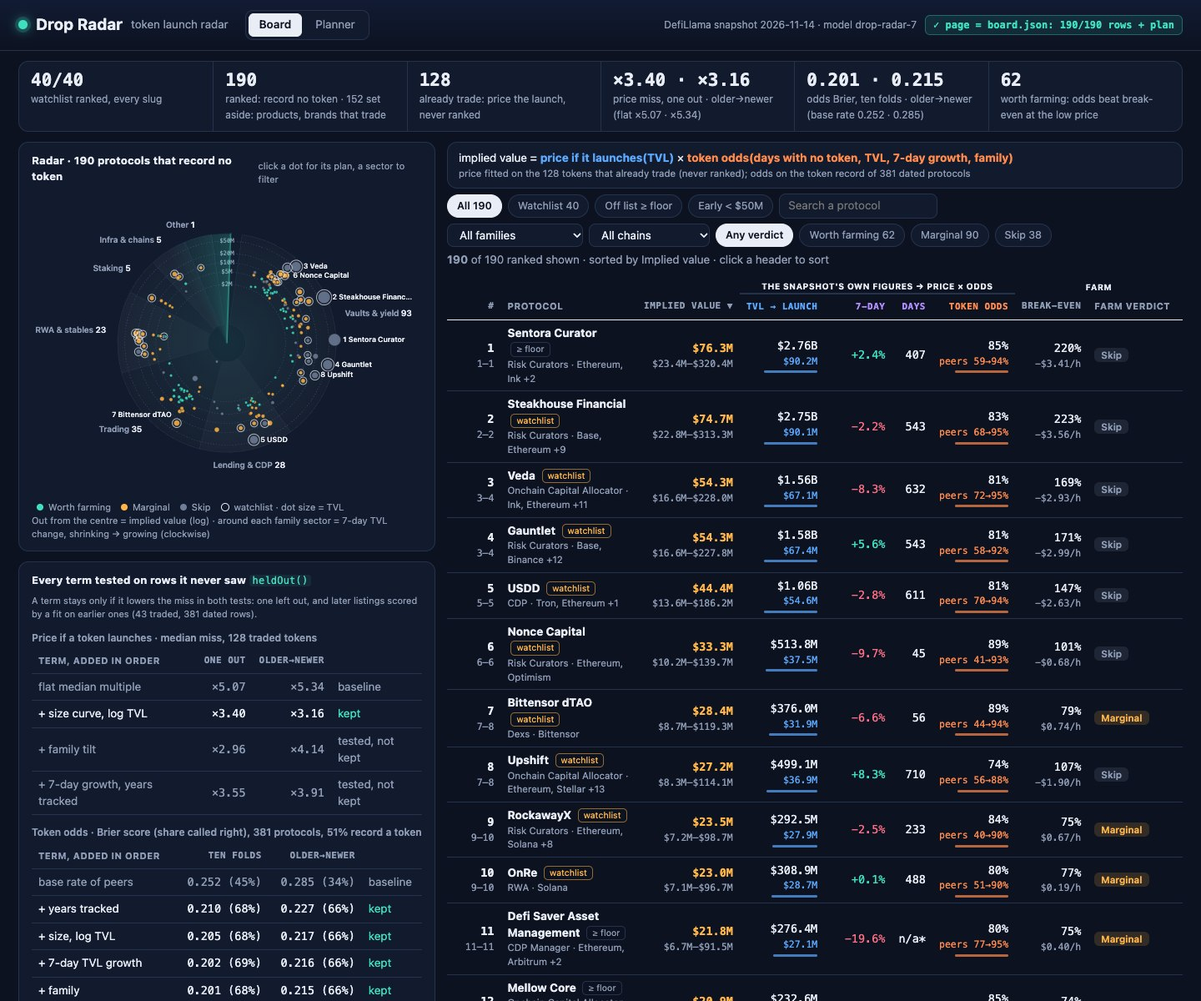
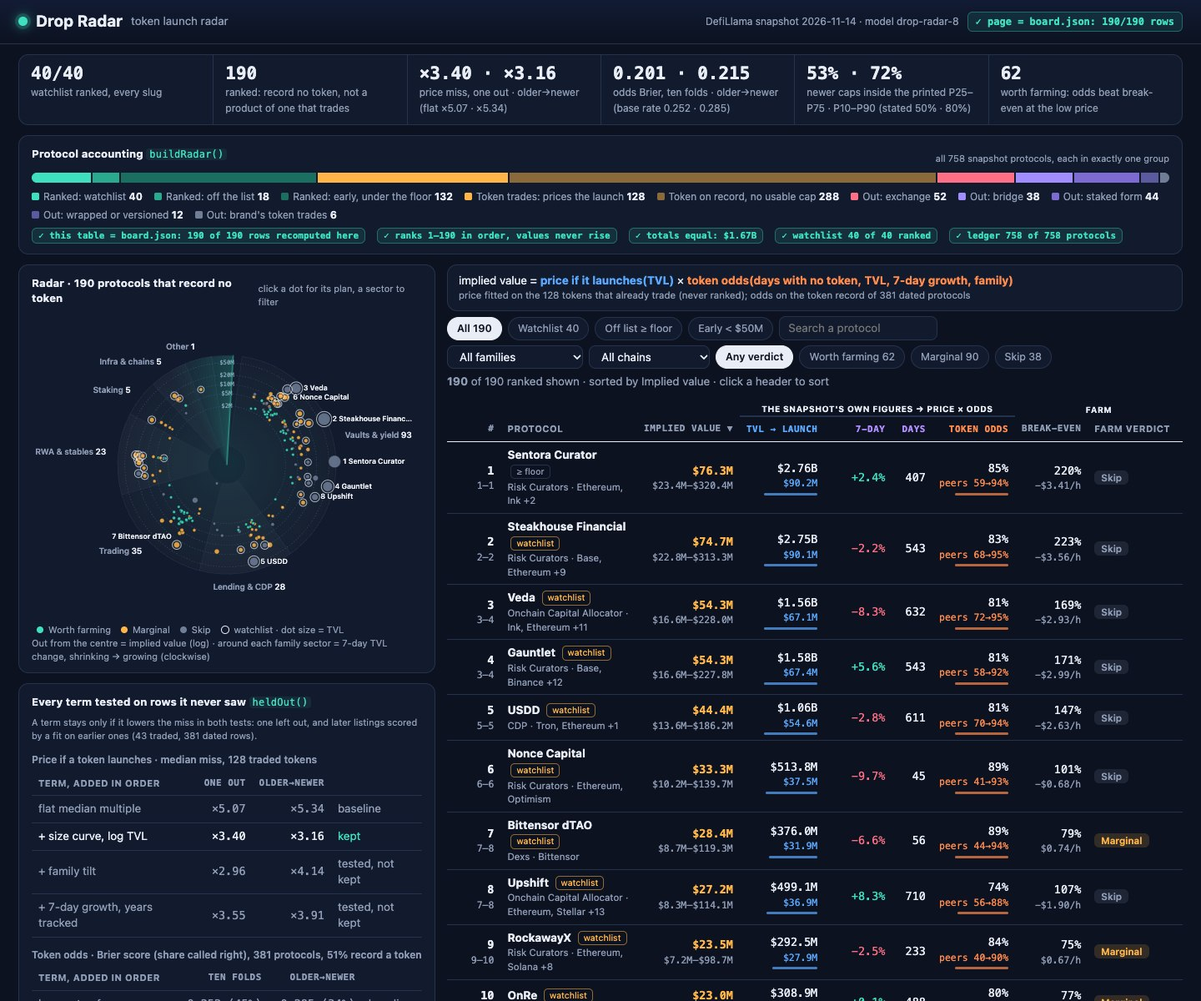
v8 candidate: account for all 758 protocols, show band honesty, drop the planner
The board now puts every snapshot protocol in exactly one group (ranked,
token trades, token on record with no cap, each set-aside reason) and reruns
five checks against board.json in the page: rows, rank order, totals,
watchlist and the 758-protocol ledger. A KPI shows how many newer listings'
caps land inside the printed P25-P75 and P10-P90 bands. The portfolio
planner is removed to keep the whole source inside the dossier. The model,
ranks, values and farm steps are unchanged from v7.

Changed region(s): [[0.0, 0.0, 1.0, 1.0], [0.2812, 0.5858, 0.3438, 0.6167]]

diff --git a/dashboard/radar.js b/dashboard/radar.js
@@ -1,5 +1,5 @@
 // Drop Radar page: reruns model.js on the sealed snapshot (../data.js), checks it against board.json row by row,
-// and renders the board, its radar sweep, a detail view per protocol and the planner. State: the URL hash.
+// and renders the board with its protocol accounting and radar sweep, and a detail view per protocol. State: the URL hash.
 (function () {
   'use strict';
   var M = window.DropRadar, R = M.buildRadar(window.SNAPSHOT), B = window.BOARD;
@@ -7,22 +7,20 @@
   var esc = function (s) { return String(s).replace(/[&<>"']/g, function (c) { return '&#' + c.charCodeAt(0) + ';'; }); };
   var usd = function (x) { return x >= 1e9 ? '$' + (x / 1e9).toFixed(2) + 'B' : x >= 1e6 ? '$' + (x / 1e6).toFixed(1) + 'M' : x >= 1e3 ? '$' + Math.round(x / 1e3) + 'K' : '$' + Math.round(x); };
   var pct = function (x) { return x === null ? '<span class="mute">n/a</span>' : '<span class="' + (x >= 0 ? 'up' : 'down') + '">' + (x >= 0 ? '+' : '') + x.toFixed(1) + '%</span>'; };
-  var hrs = function (m) { return (m / 60).toFixed(1) + ' h'; };
   var VCLASS = { 'Worth farming': 'v-worth', 'Marginal': 'v-marg', 'Skip': 'v-skip' };
   var bySlug = {}; R.rows.forEach(function (r) { bySlug[r.slug] = r; });
 
-  // board.json = this page: every rank, value and farm plan, and the default portfolio, against the files main.ts wrote.
+  // board.json = this page: every rank, value and farm plan, against the file main.ts wrote.
   var matched = 0;
   R.rows.forEach(function (r, i) {
     var b = B.rows[i], steps = M.boardRows({ rows: [r] })[0].farm_steps;
     if (b && b.slug === r.slug && b.rank === r.rank && b.implied_value_usd === r.implied && b.farm_steps.join('|') === steps.join('|')) matched++;
   });
-  var P0 = M.planPortfolio(R), planOk = B.portfolio && B.portfolio.picks.join('|') === P0.picks.map(function (q) { return q.r.slug + ':' + q.deposit + ':' + q.start; }).join('|');
-  var verified = matched === B.rows.length && matched === R.rows.length && planOk;
+  var verified = matched === B.rows.length && matched === R.rows.length;
   document.getElementById('stamp').innerHTML = 'DefiLlama snapshot ' + esc(R.as_of) + ' &middot; model ' + esc(R.cfg.version) +
-    ' <span class="check ' + (verified ? 'ok' : 'bad') + '">' + (verified ? '&#10003;' : '&#10007;') + ' page = board.json: ' + matched + '/' + B.rows.length + ' rows' + (planOk ? ' + plan' : '') + '</span>';
+    ' <span class="check ' + (verified ? 'ok' : 'bad') + '">' + (verified ? '&#10003;' : '&#10007;') + ' page = board.json: ' + matched + '/' + B.rows.length + ' rows</span>';
 
-  var D = { view: 'board', q: '', fam: '', chain: '', scope: 'all', verdict: '', sort: 'implied', dir: -1, p: '', budget: '', hours: '', rate: '' };
+  var D = { q: '', fam: '', chain: '', scope: 'all', verdict: '', sort: 'implied', dir: -1, p: '' };
   var S = JSON.parse(JSON.stringify(D));
   function readHash() {
     location.hash.replace(/^#/, '').split('&').forEach(function (kv) {
@@ -37,7 +35,6 @@
     history.replaceState(null, '', parts.length ? '#' + parts.join('&') : location.pathname);
     render();
   }
-  function plan() { return M.planPortfolio(R, { budget: S.budget, hours: S.hours, rate: S.rate }); }
   function wire() {
     app.querySelectorAll('[data-slug]').forEach(function (el) { el.onclick = function () { go({ p: el.dataset.slug }); }; });
     app.querySelectorAll('[data-fam]').forEach(function (el) { el.onclick = function () { go({ view: 'board', fam: S.fam === el.dataset.fam ? '' : el.dataset.fam }); }; });
@@ -102,12 +99,27 @@
     var p = R.price[R.pk].test, p0 = R.price[0].test, o = R.oddsTests.filter(function (s) { return s.kept; }).pop().test, o0 = R.oddsTests[0].test;
     return '<section class="kpis">' + [
       [w + '/' + R.watch_n, 'watchlist ranked, every slug'],
-      [R.rows.length, 'ranked: record no token &middot; ' + R.set_aside + ' set aside: products, brands that trade'],
-      [R.traded.length, 'already trade: price the launch, never ranked'],
+      [R.rows.length, 'ranked: record no token, not a product of one that trades'],
       ['&times;' + p.first.miss.toFixed(2) + ' &middot; &times;' + p.walk.miss.toFixed(2), 'price miss, one out &middot; older&rarr;newer (flat &times;' + p0.first.miss.toFixed(2) + ' &middot; &times;' + p0.walk.miss.toFixed(2) + ')'],
       [o.first.brier.toFixed(3) + ' &middot; ' + o.walk.brier.toFixed(3), 'odds Brier, ten folds &middot; older&rarr;newer (base rate ' + o0.first.brier.toFixed(3) + ' &middot; ' + o0.walk.brier.toFixed(3) + ')'],
+      [Math.round(R.cover[0].walk * 100) + '% &middot; ' + Math.round(R.cover[1].walk * 100) + '%', 'newer caps inside the printed P25&ndash;P75 &middot; P10&ndash;P90 (stated 50% &middot; 80%)'],
       [worth, 'worth farming: odds beat break-even at the low price'],
     ].map(function (k) { return '<div><b>' + k[0] + '</b><span>' + k[1] + '</span></div>'; }).join('') + '</section>';
+  }
+
+  // Every snapshot protocol in exactly one group, and the checks this page reruns against board.json.
+  var LCOL = ['#3fe0c0', '#2aa98f', '#1b6f61', '#ffb547', '#8a6a3a', '#ff6f86', '#a28dff', '#7d6bd1', '#5b5a9e', '#6f7d96', '#3a4660'];
+  function ledger() {
+    var g = R.ledger, keys = M.LEDGER.filter(function (k) { return g[k]; }), n = keys.reduce(function (s, k) { return s + g[k]; }, 0);
+    var sum = function (a, f) { return a.reduce(function (s, r) { return s + r[f]; }, 0); }, w = R.rows.filter(function (r) { return r.watch; }).length;
+    var desc = R.rows.every(function (r, i) { return r.rank === i + 1 && (!i || r.implied <= R.rows[i - 1].implied); });
+    var col = function (k) { return LCOL[M.LEDGER.indexOf(k)]; };
+    var chk = [[verified, 'this table = board.json: ' + matched + ' of ' + B.rows.length + ' rows recomputed here'], [desc, 'ranks 1&ndash;' + R.rows.length + ' in order, values never rise'],
+      [sum(R.rows, 'implied') === sum(B.rows, 'implied_value_usd'), 'totals equal: ' + usd(sum(R.rows, 'implied'))], [w === R.watch_n, 'watchlist ' + w + ' of ' + R.watch_n + ' ranked'], [n === R.universe, 'ledger ' + n + ' of ' + R.universe + ' protocols']];
+    return '<section class="card ledger"><div class="plhead"><h3>Protocol accounting <code>buildRadar()</code></h3><span class="mute tiny">all ' + R.universe + ' snapshot protocols, each in exactly one group</span></div><div class="lbar">' +
+      keys.map(function (k) { return '<i style="flex:' + g[k] + ';background:' + col(k) + '" title="' + esc(k) + ': ' + g[k] + '"></i>'; }).join('') + '</div><div class="lkey">' +
+      keys.map(function (k) { return '<span><i style="background:' + col(k) + '"></i>' + esc(k) + ' <b>' + g[k] + '</b></span>'; }).join('') + '</div><div class="lkey">' +
+      chk.map(function (c) { return '<span class="check ' + (c[0] ? 'ok' : 'bad') + '">' + (c[0] ? '&#10003; ' : '&#10007; ') + c[1] + '</span>'; }).join('') + '</div></section>';
   }
 
   // Every term of both fits, in the order it was tried, with its two held-out scores and whether it stayed.
@@ -163,7 +175,7 @@
     R.rows.forEach(function (r) { r.chains.forEach(function (c) { chains[c] = (chains[c] || 0) + 1; }); });
     var famCount = function (f) { return R.rows.filter(function (r) { return r.family === f; }).length; };
     var vCount = function (v) { return R.rows.filter(function (r) { return r.plan.verdict === v; }).length; };
-    app.innerHTML = kpis() + '<div class="hgrid"><div class="lcol"><section class="card"><div class="plhead"><h3>Radar &middot; ' + R.rows.length + ' protocols that record no token</h3><span class="mute tiny">click a dot for its plan, a sector to filter</span></div>' + sweep() + '</section>' + howCard() + '</div>' +
+    app.innerHTML = kpis() + ledger() + '<div class="hgrid"><div class="lcol"><section class="card"><div class="plhead"><h3>Radar &middot; ' + R.rows.length + ' protocols that record no token</h3><span class="mute tiny">click a dot for its plan, a sector to filter</span></div>' + sweep() + '</section>' + howCard() + '</div>' +
       '<div class="rcol"><div class="formula">implied value = <b class="k-tvl">price if it launches(TVL)</b> &times; <b class="k-d">token odds(days with no token, TVL, 7-day growth, family)</b><span>price fitted on the ' + R.traded.length + ' tokens that already trade (never ranked); odds on the token record of ' + R.dated + ' dated protocols</span></div>' +
       '<div class="filters">' + chip('scope', 'all', 'All ' + R.rows.length) + chip('scope', 'watch', 'Watchlist ' + R.watch_n) + chip('scope', 'off', 'Off list &ge; floor') + chip('scope', 'early', 'Early &lt; $50M') +
       '<input type="search" id="q" placeholder="Search a protocol" value="' + esc(S.q) + '"></div>' +
@@ -183,37 +195,9 @@
     app.querySelector('#chain').onchange = function (e) { go({ chain: e.target.value }); };
   }
 
-  // ---- the portfolio planner
-  var span = function (a) { return a.length > 1 ? a[0] + '&ndash;' + a[a.length - 1] : String(a[0]); };
-
-  function planner() {
-    var P = plan(), o = P.opt, cap = o.hours * 60, hl = {};
-    P.picks.forEach(function (q) { hl[q.r.slug] = 1; });
-    var field = function (k, label, step) { return '<label>' + label + '<input type="number" min="1" step="' + step + '" data-in="' + k + '" value="' + o[k] + '"></label>'; };
-    var tile = function (v, k, sub) { return '<div><span>' + k + '</span><b>' + v + '</b>' + (sub ? '<small>' + sub + '</small>' : '') + '</div>'; };
-    var weeks = P.load.map(function (m, i) { return '<th class="num">wk ' + (i + 1) + '</th>'; }).join('');
-    app.innerHTML = '<section class="card ptop"><div><h2>Farm portfolio planner</h2><p class="mute">From the ' + P.candidates + ' Worth farming and Marginal rows, <code>planPortfolio()</code> takes positions by expected drop per dollar of fees, income forgone and time (hours &times; your rate): one per protocol, at most ' + Math.round(o.family_cap * 100) + '% of the budget in one family, each started in the first of ' + o.starts + ' weeks that keeps every week under your hours cap.</p></div>' +
-      '<div class="inputs">' + field('budget', 'Budget, $', 500) + field('hours', 'Hours a week', 0.5) + field('rate', 'Your time, $/h', 5) + '</div></section>' +
-      '<section class="totals big">' + tile(P.picks.length, 'positions', money(P.deposit) + ' deployed') + tile(money(P.fees), 'fees and gas', 'every step, every chain') + tile(money(P.forgone), 'income forgone', Math.round(R.cfg.tbill * 100) + '% a year on the deposits') + tile(hrs(P.minutes), 'hands-on time', 'peak week ' + Math.round(Math.max.apply(0, P.load.concat(0))) + ' of ' + cap + ' min') +
-      tile(money(P.slice), 'expected drop', 'odds applied; band ' + money(P.lo) + '&ndash;' + money(P.hi)) + tile(P.slice ? Math.round((P.fees + P.forgone) / P.slice * 100) + '%' : '&ndash;', 'costs / expected drop', 'under 100% pays for the plan') + '</section>' +
-      (P.picks.length ? '' : '<p class="card warn">No position fits: a setup week takes about 70 minutes, so allow at least 1.5 hours a week and $' + o.min_fill + ' per position.</p>') +
-      '<div class="pgrid"><div><section class="card"><h3>Positions, in the order the greedy took them</h3><table class="mini"><thead><tr><th>#</th><th>Protocol</th><th class="num">Deposit</th><th>Chain</th><th class="num">Start</th><th class="num">Fees</th><th class="num">Forgone</th><th class="num">Time</th><th class="num">Expected drop (band)</th><th class="num">Drop / $</th></tr></thead><tbody>' +
-      P.picks.map(function (q, i) { return '<tr data-slug="' + esc(q.r.slug) + '"><td>' + (i + 1) + '</td><td><b>' + esc(q.r.name) + '</b> <span class="verdict ' + VCLASS[q.r.plan.verdict] + '">' + q.r.plan.verdict + '</span><small>' + esc(q.r.family) + ' &middot; rank ' + q.r.rank + ' &middot; ' + usd(q.r.implied) + '</small></td><td class="num">' + money(q.deposit) + '</td><td>' + esc(q.r.plan.chain) + '</td><td class="num">wk ' + (q.start + 1) + '</td><td class="num">' + money(q.fees) + '</td><td class="num">' + money(q.forgone) + '</td><td class="num">' + q.minutes + ' min</td><td class="num"><b class="val">' + money(q.slice) + '</b><small>' + money(q.lo) + '&ndash;' + money(q.hi) + '</small></td><td class="num">&times;' + q.score.toFixed(2) + '</td></tr>'; }).join('') + '</tbody></table></section>' +
-      '<section class="card"><h3>The combined schedule: which step of each plan falls in which week</h3><table class="cal"><thead><tr><th>Position</th>' + weeks + '</tr></thead><tbody>' +
-      P.picks.map(function (q) {
-        var cells = P.load.map(function (m, i) { var w = q.weeks[i - q.start]; return !w ? '<td></td>' : '<td class="on' + (w.steps.length ? ' st' : '') + '" title="' + Math.round(w.min) + ' min">' + (w.steps.length ? span(w.steps) : '&middot;') + '</td>'; }).join('');
-        return '<tr data-slug="' + esc(q.r.slug) + '"><td>' + esc(q.r.name) + '</td>' + cells + '</tr>';
-      }).join('') +
-      '<tr class="sum"><td>Minutes that week</td>' + P.load.map(function (m) { return '<td class="num' + (m > cap * 0.8 ? ' hot' : '') + '">' + Math.round(m) + '</td>'; }).join('') + '</tr></tbody></table>' +
-      '<p class="mute tiny">Numbers are the plan steps of each protocol\'s detail page (1&ndash;4 setup, 6 midway, 8 withdraw); &middot; is the 5-minute weekly check. The stop rule and the claim fire only on an event.</p></section></div>' +
-      '<div><section class="card"><h3>Chosen positions on the radar</h3>' + sweep(hl) + '</section></div></div>';
-    wire();
-    app.querySelectorAll('[data-in]').forEach(function (el) { el.onchange = function () { var x = {}; x[el.dataset.in] = el.value > 0 ? String(+el.value) : ''; go(x); }; });
-  }
-
   // ---- one protocol
   function detail(r) {
-    var p = r.plan, f = r.f, mine = P0.picks.filter(function (q) { return q.r === r; })[0];
+    var p = r.plan, f = r.f;
     var tile = function (v, k, cls) { return '<div class="tile ' + (cls || '') + '"><b>' + v + '</b><span>' + k + '</span></div>'; };
     app.innerHTML = '<a class="back" href="#">&larr; Board</a><div class="dhead"><h1>' + esc(r.name) + '</h1><span class="tag">records no token</span>' + (r.watch ? '<span class="tag watch">watchlist</span>' : '') + (r.sib ? '<span class="tag">its brand\'s $' + esc(r.sib) + ' trades</span>' : '') + '<span class="tag">' + esc(r.category) + '</span><span class="tag">' + esc(r.chains.slice(0, 4).join(' · ')) + '</span></div>' +
       '<div class="dgrid"><section class="card"><div class="hero"><div><span class="mute">Implied value, this model\'s claim</span><b class="big">' + usd(r.implied) + '</b></div>' +
@@ -223,7 +207,7 @@
       '<p class="mute tiny">Odds: peers like it (same TVL, growth, family) record a token ' + Math.round(f.now * 100) + '% of the time by its age and ' + Math.round(f.end * 100) + '% by ' + R.ceiling.toFixed(1) + ' years, so (' + Math.round(f.end * 100) + ' &minus; ' + Math.round(f.now * 100) + ') / (100 &minus; ' + Math.round(f.now * 100) + ') = ' + Math.round(r.odds * 100) + '% of the ones still without one get there. The peers\' record, not a forecast.</p>' +
       '<h3>The farm arithmetic</h3><div class="arith">Drop if a token launches = ' + Math.round(R.cfg.drop_share * 100) + '% airdrop &times; ' + usd(r.launch) + ' &times; ' + money(p.deposit) + ' / (' + usd(r.tvl) + ' TVL + ' + money(p.deposit) + ') = <b>' + money(p.launch) + '</b>; expected drop = &times; ' + Math.round(r.odds * 100) + '% odds = <b>' + money(p.slice) + '</b><br>Break-even = (' + money(p.fees) + ' fees + ' + money(p.forgone) + ' income forgone at ' + Math.round(R.cfg.tbill * 100) + '% a year for ' + p.weeks + ' weeks) / ' + money(p.launch) + ' = <b>' + Math.round(p.odds * 100) + '%</b> odds, against the model\'s <b>' + Math.round(r.odds * 100) + '%</b>. With the price at the band\'s ends: ' + Math.round(p.odds_hi * 100) + '% to ' + Math.round(p.odds_lo * 100) + '%.</div>' +
       '<p class="mute">' + (r.odds >= p.odds_lo ? 'Worth farming: the odds clear the break-even even at the band\'s low price.' : r.odds < p.odds ? 'A skip: the odds sit below the break-even at the point price.' : 'Marginal: the odds clear the break-even only above the band\'s low price; size the deposit down or wait for a points page.') + '</p>' +
-      '<div class="inplan">' + (mine ? 'In the default <a href="#view=plan">portfolio</a>: ' + money(mine.deposit) + ' from week ' + (mine.start + 1) + ', slice ' + money(mine.slice) + '.' : 'Not in the default <a href="#view=plan">' + money(P0.opt.budget) + ' portfolio</a>' + (p.verdict === 'Skip' ? ': a Skip.' : ': other rows pay more per dollar and hour.')) + '</div></section>' +
+      '</section>' +
       '<section class="card"><div class="plhead"><h3>Farm plan &middot; ' + esc(p.chain) + ' &middot; ' + money(p.deposit) + ' &middot; ' + p.weeks + ' weeks</h3><span class="verdict ' + VCLASS[p.verdict] + '">' + p.verdict + '</span></div>' + '<p class="stopline">Stop rule, any day: exit if TVL closes under ' + money(p.stop) + '</p>' +
       '<table class="plan"><thead><tr><th>#</th><th>When</th><th>Step</th><th class="num">Cost</th><th class="num">Time</th></tr></thead><tbody>' +
       p.steps.map(function (s, i) { return '<tr' + (/^Stop rule/.test(s.text) ? ' class="stoprow"' : '') + '><td>' + (i + 1) + '</td><td>' + esc(s.when) + '</td><td>' + esc(s.text) + '</td><td class="num">' + money(s.cost) + '</td><td class="num">' + s.min + ' min</td></tr>'; }).join('') + '</tbody></table>' +
@@ -232,9 +216,8 @@
   }
 
   function render() {
-    document.querySelectorAll('.tabs button').forEach(function (b) { b.setAttribute('aria-selected', String(b.dataset.view === S.view && !S.p)); b.onclick = function () { go({ view: b.dataset.view, p: '' }); }; });
     var r = S.p && bySlug[S.p];
-    if (r) detail(r); else if (S.view === 'plan') planner(); else board();
+    if (r) detail(r); else board();
     var back = app.querySelector('.back'); if (back) back.onclick = function (e) { e.preventDefault(); go({ p: '' }); };
     window.scrollTo(0, 0);
   }

diff --git a/dashboard/model.js b/dashboard/model.js
@@ -5,7 +5,7 @@
   'use strict';
 
   var CFG = {
-    version: 'drop-radar-7',
+    version: 'drop-radar-8',
     shrink_k: 4, ridge: 0.5, fam_ridge: 8, ceiling_q: 0.95, odds_floor: 0.03,
     drop_share: 0.10,     // airdrop share of the launch value
     tbill: 0.04,          // income a deposit forgoes, per year
@@ -13,7 +13,10 @@
   };
 
   var FAMILIES = ['Vaults & yield', 'Lending & CDP', 'Trading', 'RWA & stables', 'Staking', 'Infra & chains', 'Other'];
-  var EXCLUDED = { 'CEX': 1, 'Bridge': 1, 'Canonical Bridge': 1, 'Liquid Staking': 1, 'Liquid Restaking': 1, 'Restaked BTC': 1, 'Stablecoin Wrapper': 1 };
+  var STAKED = { 'Liquid Staking': 1, 'Liquid Restaking': 1, 'Restaked BTC': 1 };
+  // Every snapshot protocol lands in exactly one of these groups (buildRadar counts them; the page sums them to the universe).
+  var LEDGER = ['Ranked: watchlist', 'Ranked: off the list', 'Ranked: early, under the floor', 'Token trades: prices the launch', 'Token on record, no usable cap',
+    'Out: exchange', 'Out: bridge', 'Out: staked form', 'Out: wrapped or versioned', 'Out: brand\'s token trades', 'No TVL'];
 
   function familyOf(cat) {
     var c = String(cat || '').toLowerCase();
@@ -28,12 +31,15 @@
 
   function isPreToken(p) { return p.mcap_usd === null && p.gecko_id === null && p.symbol === null; }
 
-  /** The house product rule minus its TVL floor, plus stablecoin wrappers and restaking of a liquid-staked token. */
-  function isProduct(p, staked) {
-    if (EXCLUDED[p.category]) return true;
-    if (p.category === 'Restaking' && p.slug.split('-').some(function (s) { return staked[s]; })) return true;
-    if (/^(binance|coinbase|bybit|kraken|bitget|okx|bitfinex|gemini)\b/i.test(p.name)) return true;
-    return /\b(wrapped|staked|staking)\b/i.test(p.name) || /\s(v\d+|\d+\.\d+)$/i.test(p.name);
+  /** Why a protocol is a product of a token that trades, '' when it is not: the house rule minus its TVL floor, plus
+   *  stablecoin wrappers and restaking of a liquid-staked token. */
+  function productOf(p, staked) {
+    var c = p.category || '', n = p.name;
+    if (c === 'CEX' || /^(binance|coinbase|bybit|kraken|bitget|okx|bitfinex|gemini)\b/i.test(n)) return 'exchange';
+    if (c === 'Bridge' || c === 'Canonical Bridge') return 'bridge';
+    if (STAKED[c] || /\b(staked|staking)\b/i.test(n) || (c === 'Restaking' && p.slug.split('-').some(function (s) { return staked[s]; }))) return 'staked form';
+    if (c === 'Stablecoin Wrapper' || /\bwrapped\b/i.test(n) || /\s(v\d+|\d+\.\d+)$/i.test(n)) return 'wrapped or versioned';
+    return '';
   }
 
   var L = function (x) { return Math.log(x) / Math.LN10; };
@@ -191,50 +197,6 @@
       odds_lo: beLo, odds_hi: be * r.implied / r.hi };
   }
 
-  // ---------------------------------------------------------------- the portfolio
-  var PF = { budget: 10000, hours: 3, rate: 25, family_cap: 0.25, starts: 4, min_fill: 250, tvl_cap: 0.001 };
-
-  /** Minutes a plan asks for in each week of its hold: dated steps in week floor(day / 7), the check every week. */
-  function weekLoad(plan) {
-    var w = [];
-    for (var k = 0; k <= plan.weeks; k++) w.push({ min: 0, steps: [] });
-    plan.steps.forEach(function (s, i) {
-      if (s.weekly) for (k = 0; k < plan.weeks; k++) w[k].min += s.min / plan.weeks;
-      else if (s.at !== undefined) { w[Math.floor(s.at / 7)].min += s.min; w[Math.floor(s.at / 7)].steps.push(i + 1); }
-    });
-    return w;
-  }
-
-  /** Greedy plan: Worth farming and Marginal rows by expected drop per $ of fees + income forgone + time (hours x rate),
-   *  one per protocol, at most family_cap of the budget per family, started in the first of `starts` weeks that keeps
-   *  every week of the combined schedule under the hours cap. */
-  function planPortfolio(radar, opt) {
-    var o = {}, k;
-    for (k in PF) o[k] = opt && opt[k] > 0 ? +opt[k] : PF[k];
-    var cap = o.hours * 60, load = [], fam = {}, left = o.budget, picks = [];
-    var cand = radar.rows.filter(function (r) { return r.plan.verdict !== 'Skip'; }).map(function (r) {
-      var p = r.plan; return { r: r, score: p.slice / (p.fees + p.forgone + p.minutes / 60 * o.rate) };
-    }).sort(function (a, b) { return b.score - a.score || a.r.rank - b.r.rank; });
-    cand.forEach(function (c) {
-      var r = c.r, p = r.plan, room = Math.min(left, o.budget * o.family_cap - (fam[r.family] || 0));
-      var dep = Math.floor(Math.min(p.deposit * o.budget / PF.budget, r.tvl * o.tvl_cap, room) / 50) * 50;
-      var x = dep / p.deposit, slice = p.slice * x, forgone = p.forgone * x;
-      if (dep < o.min_fill || p.fees + forgone > slice) return;   // too small, or fees eat the smaller slice
-      var wl = weekLoad(p), start = -1;
-      for (var s = 0; s < o.starts && start < 0; s++) {
-        if (wl.every(function (w, i) { return (load[s + i] || 0) + w.min <= cap; })) start = s;
-      }
-      if (start < 0) return;
-      wl.forEach(function (w, i) { load[start + i] = (load[start + i] || 0) + w.min; });
-      fam[r.family] = (fam[r.family] || 0) + dep; left -= dep;
-      picks.push({ r: r, score: c.score, deposit: dep, start: start, weeks: wl, fees: p.fees, forgone: forgone, minutes: p.minutes, slice: slice, lo: slice * r.lo / r.implied, hi: slice * r.hi / r.implied });
-    });
-    var sum = function (f) { return picks.reduce(function (t, q) { return t + q[f]; }, 0); };
-    for (k = 0; k < load.length; k++) load[k] = load[k] || 0;
-    return { opt: o, picks: picks, candidates: cand.length, load: load,
-      deposit: sum('deposit'), fees: sum('fees'), forgone: sum('forgone'), minutes: sum('minutes'), slice: sum('slice'), lo: sum('lo'), hi: sum('hi') };
-  }
-
   function stepText(s) { return s.when + ': ' + s.text + ' (cost ' + money(s.cost) + ', ' + s.min + ' min)'; }
 
   // ---------------------------------------------------------------- the board
@@ -261,9 +223,14 @@
     price.forEach(function (s, k) { if (!k) return; var c = price[pk].test; s.kept = s.test.first.miss < c.first.miss && s.test.walk.miss < c.walk.miss; if (s.kept) pk = k; });
     var fit = fitPrice(pts, pk), loo = price[pk].test.first;
     var bandLo = quantile(loo.err, 0.25), bandHi = quantile(loo.err, 0.75);
+    // Is the printed band honest? The share of held-out misses inside the P25..P75 and P10..P90 of the one-out misses.
+    var cover = [0.25, 0.1].map(function (q) {
+      var a = quantile(loo.err, q), z = quantile(loo.err, 1 - q), inside = function (e) { return e.filter(function (x) { return x >= a && x <= z; }).length / e.length; };
+      return { stated: 1 - 2 * q, first: inside(loo.err), walk: inside(price[pk].test.walk.err) };
+    });
 
     // odds: every dated protocol that is not a product, token recorded or not
-    var us = snap.protocols.filter(function (p) { return p.listed_at && p.tvl_usd > 0 && !isProduct(p, staked); }).map(function (p) { return Object.assign({ y: isPreToken(p) ? 0 : 1 }, bySlug[p.slug]); });
+    var us = snap.protocols.filter(function (p) { return p.listed_at && p.tvl_usd > 0 && !productOf(p, staked); }).map(function (p) { return Object.assign({ y: isPreToken(p) ? 0 : 1 }, bySlug[p.slug]); });
     var cur = { name: 'base rate of peers', t: {}, test: heldOut(us, {}, oddsScore) }, odds = [cur];
     ODDS.forEach(function (term) {
       var t = Object.assign({}, cur.t); t[term] = 1;
@@ -277,11 +244,15 @@
     // a brand whose token trades: another product line of it (same first word of the name) is set aside off the list
     var brand = {}, word = function (n) { var x = n.toLowerCase().split(/[\s-]/)[0]; return x.length > 2 ? x : ''; };
     snap.protocols.forEach(function (p) { if (!isPreToken(p) && p.symbol && word(p.name)) brand[word(p.name)] = p.symbol; });
-    var rows = [], setAside = 0;
+    var rows = [], setAside = 0, ledger = {}, put = function (k) { ledger[k] = (ledger[k] || 0) + 1; };
     snap.protocols.forEach(function (p) {
-      var w = !!watch[p.slug], sib = brand[word(p.name)] || '';
-      if (!w && (!isPreToken(p) || !(p.tvl_usd > 0))) return;
-      if (!w && (sib || isProduct(p, staked))) { setAside++; return; }
+      var w = !!watch[p.slug], sib = brand[word(p.name)] || '', why = productOf(p, staked);
+      if (!w) {
+        if (!isPreToken(p)) return put(p.mcap_usd > 0 ? LEDGER[3] : LEDGER[4]);
+        if (!(p.tvl_usd > 0)) return put(LEDGER[10]);
+        if (why || sib) { setAside++; return put('Out: ' + (why || 'brand\'s token trades')); }
+      }
+      put(LEDGER[w ? 0 : p.tvl_usd >= snap.floor_usd ? 1 : 2]);
       var u = bySlug[p.slug], fam = u.fam;
       var size = Math.pow(10, fit.curve.a + fit.curve.b * u.x), launch = Math.pow(10, priceLog(fit, u));
       var o = tokenOdds(om, u, ceiling), q = o.q, implied = Math.max(1, Math.round(launch * q));
@@ -304,14 +275,14 @@
 
 
     return { cfg: CFG, as_of: asOf, source: snap.source, floor: snap.floor_usd, universe: snap.protocols.length, watch_n: snap.watchlist.length,
-      set_aside: setAside, fit: fit, price: price, pk: pk, oddsTests: odds, om: om, ceiling: ceiling, share: share, dated: us.length, band: [bandLo, bandHi], traded: pts, rows: rows };
+      set_aside: setAside, ledger: ledger, cover: cover, fit: fit, price: price, pk: pk, oddsTests: odds, om: om, ceiling: ceiling, share: share, dated: us.length, band: [bandLo, bandHi], traded: pts, rows: rows };
   }
 
   function boardRows(radar) {
     return radar.rows.map(function (r) { return { slug: r.slug, name: r.name, rank: r.rank, implied_value_usd: r.implied, farm_steps: r.plan.steps.map(stepText) }; });
   }
 
-  var api = { CFG: CFG, PF: PF, FAMILIES: FAMILIES, familyOf: familyOf, buildRadar: buildRadar, boardRows: boardRows, planPortfolio: planPortfolio, weekLoad: weekLoad, money: money, priceLog: priceLog };
+  var api = { CFG: CFG, FAMILIES: FAMILIES, LEDGER: LEDGER, familyOf: familyOf, buildRadar: buildRadar, boardRows: boardRows, money: money, priceLog: priceLog };
   root.DropRadar = api;
   if (typeof module === 'object' && module.exports) module.exports = api;
 })(typeof window !== 'undefined' ? window : globalThis);

diff --git a/dashboard/style.css b/dashboard/style.css
@@ -17,9 +17,6 @@ code{font:12px var(--mono);color:var(--teal);background:rgba(63,224,192,.08);pad
 .brand b{font-size:19px;letter-spacing:.2px}
 .brand .sub{color:var(--mute);margin-right:10px}
 .dot{width:11px;height:11px;border-radius:50%;background:var(--teal);box-shadow:0 0 0 4px rgba(63,224,192,.16), 0 0 14px var(--teal)}
-.tabs{display:flex;gap:3px;background:var(--panel);padding:3px;border:1px solid var(--line);border-radius:9px}
-.tabs button{border:0;background:none;padding:4px 13px;border-radius:6px;cursor:pointer;color:var(--mute)}
-.tabs button[aria-selected="true"]{background:var(--text);color:var(--ink);font-weight:600}
 .stamp{color:var(--mute);font-size:12px;display:flex;align-items:center;gap:10px}
 .check{font:600 12px var(--mono);padding:4px 9px;border-radius:6px}
 .check.ok{color:var(--teal);background:rgba(63,224,192,.1);border:1px solid rgba(63,224,192,.35)}
@@ -101,24 +98,11 @@ svg.sweep{width:100%;height:auto;display:block;margin:-4px 0 2px}
 .dot circle{fill:currentColor;fill-opacity:.85;stroke:var(--ink);stroke-width:.6} .dot:hover circle{stroke:#fff}
 .dot .wl{fill:none;stroke:var(--text);stroke-width:1.1}
 .sweep .lab{fill:var(--text);font:600 13px var(--sans);paint-order:stroke;stroke:var(--ink);stroke-width:3px;pointer-events:none}
-.totals small{display:block;color:var(--mute);font-size:11px} .ptop{display:flex;justify-content:space-between;gap:24px;align-items:center;margin-bottom:12px}
-.ptop h2{margin:0 0 4px;font-size:22px} .ptop p{margin:0;max-width:860px}
-.inputs{display:flex;gap:10px}
-.inputs label{display:flex;flex-direction:column;gap:3px;font-size:11px;color:var(--mute)}
-.inputs input{width:112px;background:var(--panel2);border:1px solid var(--teal);border-radius:8px;padding:6px 9px;font:600 15px var(--mono)}
-.totals.big{background:var(--panel);border:1px solid var(--line);border-radius:12px;padding:10px 14px;margin:0 0 12px}
-.totals.big b{font-size:20px}
-.pgrid{display:grid;grid-template-columns:minmax(0, 1fr) 430px;gap:12px;align-items:start}
-.pgrid > div{display:grid;gap:12px}
-table.mini tr[data-slug]{cursor:pointer}
-table.cal th{cursor:default;padding:4px;text-align:center;border-bottom-color:var(--line)}
-table.cal td{padding:4px;text-align:center;font:11px var(--mono)}
-table.cal td:first-child{text-align:left;font:12px var(--sans);white-space:nowrap}
-.cal td.on{background:rgba(63,224,192,.08);color:var(--mute)} .cal td.st{background:rgba(63,224,192,.3);color:var(--text);font-weight:700}
-.cal tr.sum td{border-top:1px solid var(--text);font-weight:700} .cal td.hot{color:var(--amber)}
-.warn{color:var(--amber)}
-.inplan{margin-top:8px;padding:7px 10px;border:1px dashed var(--line);border-radius:8px;font-size:12.5px}
-@media (max-width: 1100px){.cards,.dgrid,.hgrid,.pgrid{grid-template-columns:1fr} .kpis{grid-template-columns:repeat(3, 1fr)} .ptop{flex-wrap:wrap} }
+.totals small{display:block;color:var(--mute);font-size:11px} table.mini tr[data-slug]{cursor:pointer}
+@media (max-width: 1100px){.cards,.dgrid,.hgrid{grid-template-columns:1fr} .kpis{grid-template-columns:repeat(3, 1fr)} }
 h4{margin:12px 0 4px;font-size:12px;color:var(--mute);font-weight:600}
 .tests tr.kept td{color:var(--text)} .tests td{color:var(--mute)} .tests tr.kept td:last-child{color:var(--teal)}
 .stopline{color:var(--rose);font:12px var(--mono);margin:6px 0}
+.ledger{margin-bottom:12px} .lbar{display:flex;gap:2px;height:12px;border-radius:6px;overflow:hidden;margin:6px 0 8px} .lbar i{min-width:3px}
+.lkey{display:flex;flex-wrap:wrap;gap:5px 14px;font-size:12px;color:var(--mute);margin-top:6px} .lkey i{display:inline-block;width:9px;height:9px;border-radius:2px;margin-right:5px} .lkey b{color:var(--text)}
+.lkey .check{font-size:11px;padding:2px 7px}

diff --git a/main.ts b/main.ts
@@ -2,7 +2,7 @@
 //
 // The model lives in dashboard/model.js, the same file the page runs: main.ts requires it, builds the
 // radar from the sealed snapshot, checks the board against the gate's rules, and writes
-//   /output/board.json   the ranked rows (slug, name, rank, implied_value_usd, farm_steps) and the default portfolio
+//   /output/board.json   the ranked rows (slug, name, rank, implied_value_usd, farm_steps)
 //   /output/data.js      the snapshot and board.json, for the page to recompute and compare
 //   /output/dashboard/   the page; /output/screenshots/; /output/dossier.json (vendored library), last.
 //
@@ -66,15 +66,7 @@ const rows: BoardRow[] = DropRadar.boardRows(radar);
 const issue = boardIssue(rows, snapshot);
 if (issue !== null) fail(`the board would fail the gate: ${issue}`);
 
-// The default farm portfolio ($10,000, 3 hours a week), so the planner's screenshot has a file behind it too.
-const pf = DropRadar.planPortfolio(radar);
-const portfolio = {
-  budget: pf.opt.budget, hours_per_week: pf.opt.hours, time_usd_per_hour: pf.opt.rate,
-  picks: pf.picks.map((q: { r: { slug: string }; deposit: number; start: number }) => `${q.r.slug}:${q.deposit}:${q.start}`),
-  deposit_usd: pf.deposit, fees_usd: Math.round(pf.fees), forgone_usd: Math.round(pf.forgone), minutes: pf.minutes,
-  expected_drop_usd: Math.round(pf.slice), drop_band_usd: [Math.round(pf.lo), Math.round(pf.hi)],
-};
-const board = { model: radar.cfg.version, as_of: snapshot.as_of, portfolio, rows };
+const board = { model: radar.cfg.version, as_of: snapshot.as_of, rows };
 mkdirSync(out, { recursive: true });
 writeFileSync(join(out, 'board.json'), `${JSON.stringify(board)}\n`);
 writeFileSync(join(out, 'data.js'), `window.SNAPSHOT=${JSON.stringify(snapshot)};\nwindow.BOARD=${JSON.stringify(board)};\n`);
@@ -107,5 +99,5 @@ const price = radar.price[radar.pk].test, odds = radar.oddsTests.filter((s: { ke
 process.stdout.write(
   `drop radar: ${radar.universe} protocols, ${radar.traded.length} traded anchors, ${rows.length} pre-token rows, ${radar.set_aside} set aside; ` +
     `price miss x${price.first.miss.toFixed(2)} one out, x${price.walk.miss.toFixed(2)} older to newer; odds Brier ${odds.first.brier.toFixed(3)} / ${odds.walk.brier.toFixed(3)}; ` +
-    `portfolio ${pf.picks.length} positions; ${pages.length} page files, ${shots.length} screenshots\n`,
+    `ledger ${Object.values(radar.ledger).reduce((a: number, b: unknown) => a + (b as number), 0)} of ${radar.universe}; ${pages.length} page files, ${shots.length} screenshots\n`,
 );

diff --git a/dashboard/index.html b/dashboard/index.html
@@ -8,8 +8,7 @@
 </head>
 <body>
 <header class="top">
-  <div class="brand"><span class="dot" aria-hidden="true"></span><b>Drop Radar</b><span class="sub">token launch radar</span>
-    <nav class="tabs" role="tablist"><button role="tab" data-view="board">Board</button><button role="tab" data-view="plan">Planner</button></nav></div>
+  <div class="brand"><span class="dot" aria-hidden="true"></span><b>Drop Radar</b><span class="sub">token launch radar</span></div>
   <div class="stamp" id="stamp"></div>
 </header>
 <main id="app" tabindex="-1"></main>

diff --git a/README.md b/README.md
@@ -16,7 +16,9 @@ Every value carries a P25–P75 band from held-out misses and a rank range from 
 - **Marginal:** the odds clear it at the point price.
 - **Skip:** they do not.
 
-Products and other product lines of brands whose token trades are set aside off the watchlist. The page recomputes the board with the same model.js and checks it against board.json.
+Products and other product lines of brands whose token trades are set aside off the watchlist. The board puts each of the snapshot's 758 protocols in exactly one group and shows how many newer caps land inside the printed bands.
+
+The page recomputes the board with the same model.js and checks it against board.json: rows, rank order, totals, watchlist and ledger.
 
 Entry for make.fun's [Build the best token launch radar](https://make.fun/bounty/token-radar-01) bounty.
 
